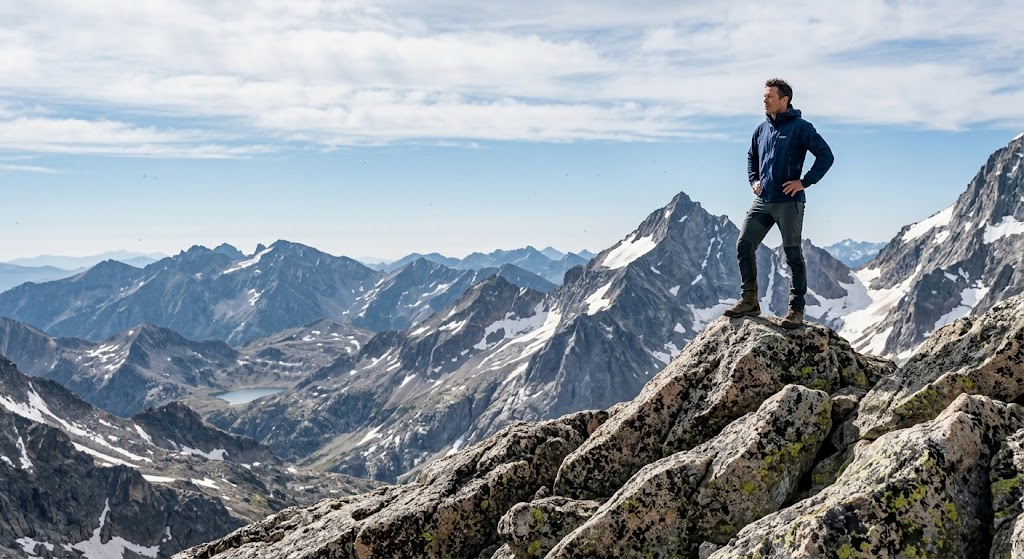
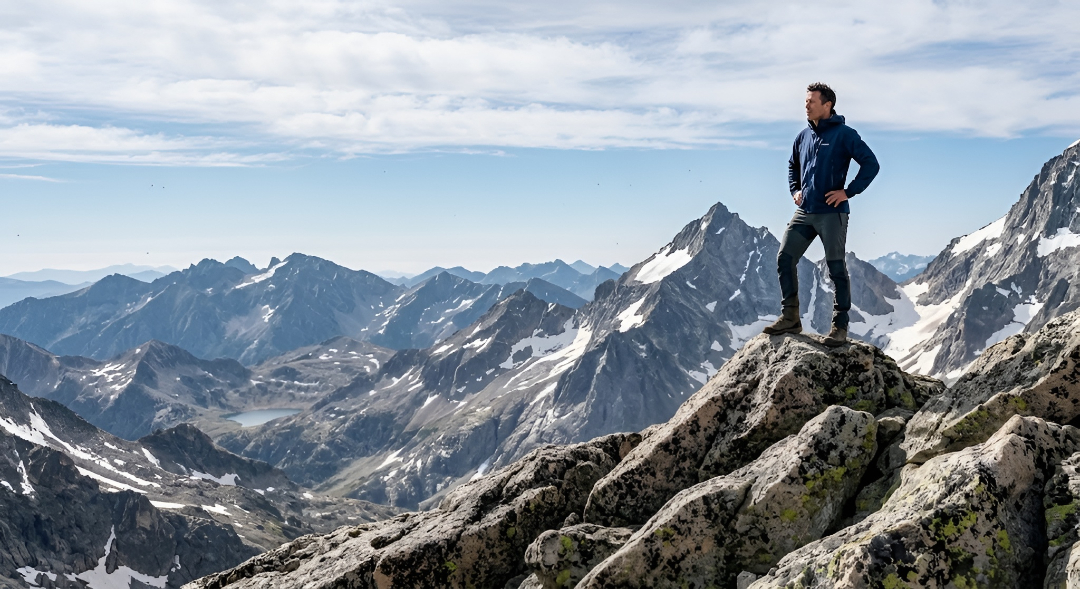
Se agrego fuente de letras

diff --git a/src/components/pagina_principal/inicio/Informacion.jsx b/src/components/pagina_principal/inicio/Informacion.jsx
@@ -36,7 +36,7 @@ export const Informacion = () => {
     <>
       <section
         id="informacion"
-        className="relative flex min-h-150 md:min-h-250 w-full items-center justify-center overflow-hidden bg-[url('/fondo2.jfif')] bg-cover bg-center"
+        className="relative flex min-h-150 md:min-h-250 w-full items-center justify-center overflow-hidden bg-[url('/fondo2.jpg')] bg-cover bg-center"
       >
         {/* Overlay */}
         <div className="absolute inset-0 bg-[#536F7A]/50" />
@@ -57,7 +57,7 @@ export const Informacion = () => {
 
           {/* Texto */}
           <div className="max-w-3xl md:text-left flex flex-col items-center">
-            <h2 className="text-3xl text-center font-extrabold uppercase leading-tight tracking-wide md:text-4xl lg:text-5xl">
+            <h2 className="font-sans text-3xl text-center font-extrabold uppercase leading-tight tracking-wide md:text-4xl lg:text-5xl">
               CUIDANDO TU SALUD
               <br />Y BIENESTAR
             </h2>

diff --git a/src/components/header/Header.jsx b/src/components/header/Header.jsx
@@ -68,7 +68,7 @@ export const Header = () => {
       >
         <div className="mx-auto flex max-w-7xl h-30 items-center justify-center px-6 py-4">
           {/* Desktop */}
-          <nav className="hidden lg:flex items-center gap-6 xl:gap-10">
+          <nav className="font-sans hidden lg:flex items-center gap-6 xl:gap-10">
             {links.map((link, i) => (
               <a
                 key={i}
@@ -76,7 +76,7 @@ export const Header = () => {
                 onClick={(e) =>
                   handleScroll(e, link.href, link.alturaPc, link.alturaMobile)
                 }
-                className="whitespace-nowrap text-sm  md:text-3xl text-white transition-colors hover:text-[#D6F1FF] font-bold"
+                className=" whitespace-nowrap text-sm  md:text-3xl text-white transition-colors hover:text-[#D6F1FF] font-bold"
               >
                 {link.name}
               </a>

diff --git a/src/app/globals.css b/src/app/globals.css
@@ -1,16 +1,18 @@
+@import url('https://fonts.googleapis.com/css2?family=Inter:wght@400;500;600;700&family=Playfair+Display:wght@500;600;700&display=swap');
 @import "tailwindcss";
+
+@theme {
+  /* Fuentes */
+  --font-sans: "Montserrat", Arial, sans-serif;
+  --font-serif: "Montserrat", Arial, sans-serif;
+}
 
 :root {
   --background: #ffffff;
   --foreground: #171717;
 }
 
-/* @media (prefers-color-scheme: dark) {
-  :root {
-    --background: #0a0a0a;
-    --foreground: #ededed;
-  }
-} */
+
 
 body {
   background: var(--background);

diff --git a/src/components/pagina_principal/inicio/Hero.jsx b/src/components/pagina_principal/inicio/Hero.jsx
@@ -17,7 +17,7 @@ export const Hero = () => {
           className="w-2xs h-auto md:w-xl md:mb-20 object-contain"
         />
 
-        <h2 className="mt-8  text-3xl font-extrabold uppercase leading-tight tracking-wide text-white drop-shadow-[4px_4px_0_#508ead] md:text-6xl">
+        <h2 className=" mt-8  text-3xl font-extrabold uppercase leading-tight tracking-wide text-white drop-shadow-[4px_4px_0_#508ead] md:text-6xl">
           AYUDÁNDOTE A RECUPERAR
           <br />
           TU BIENESTAR Y CONFIANZA
